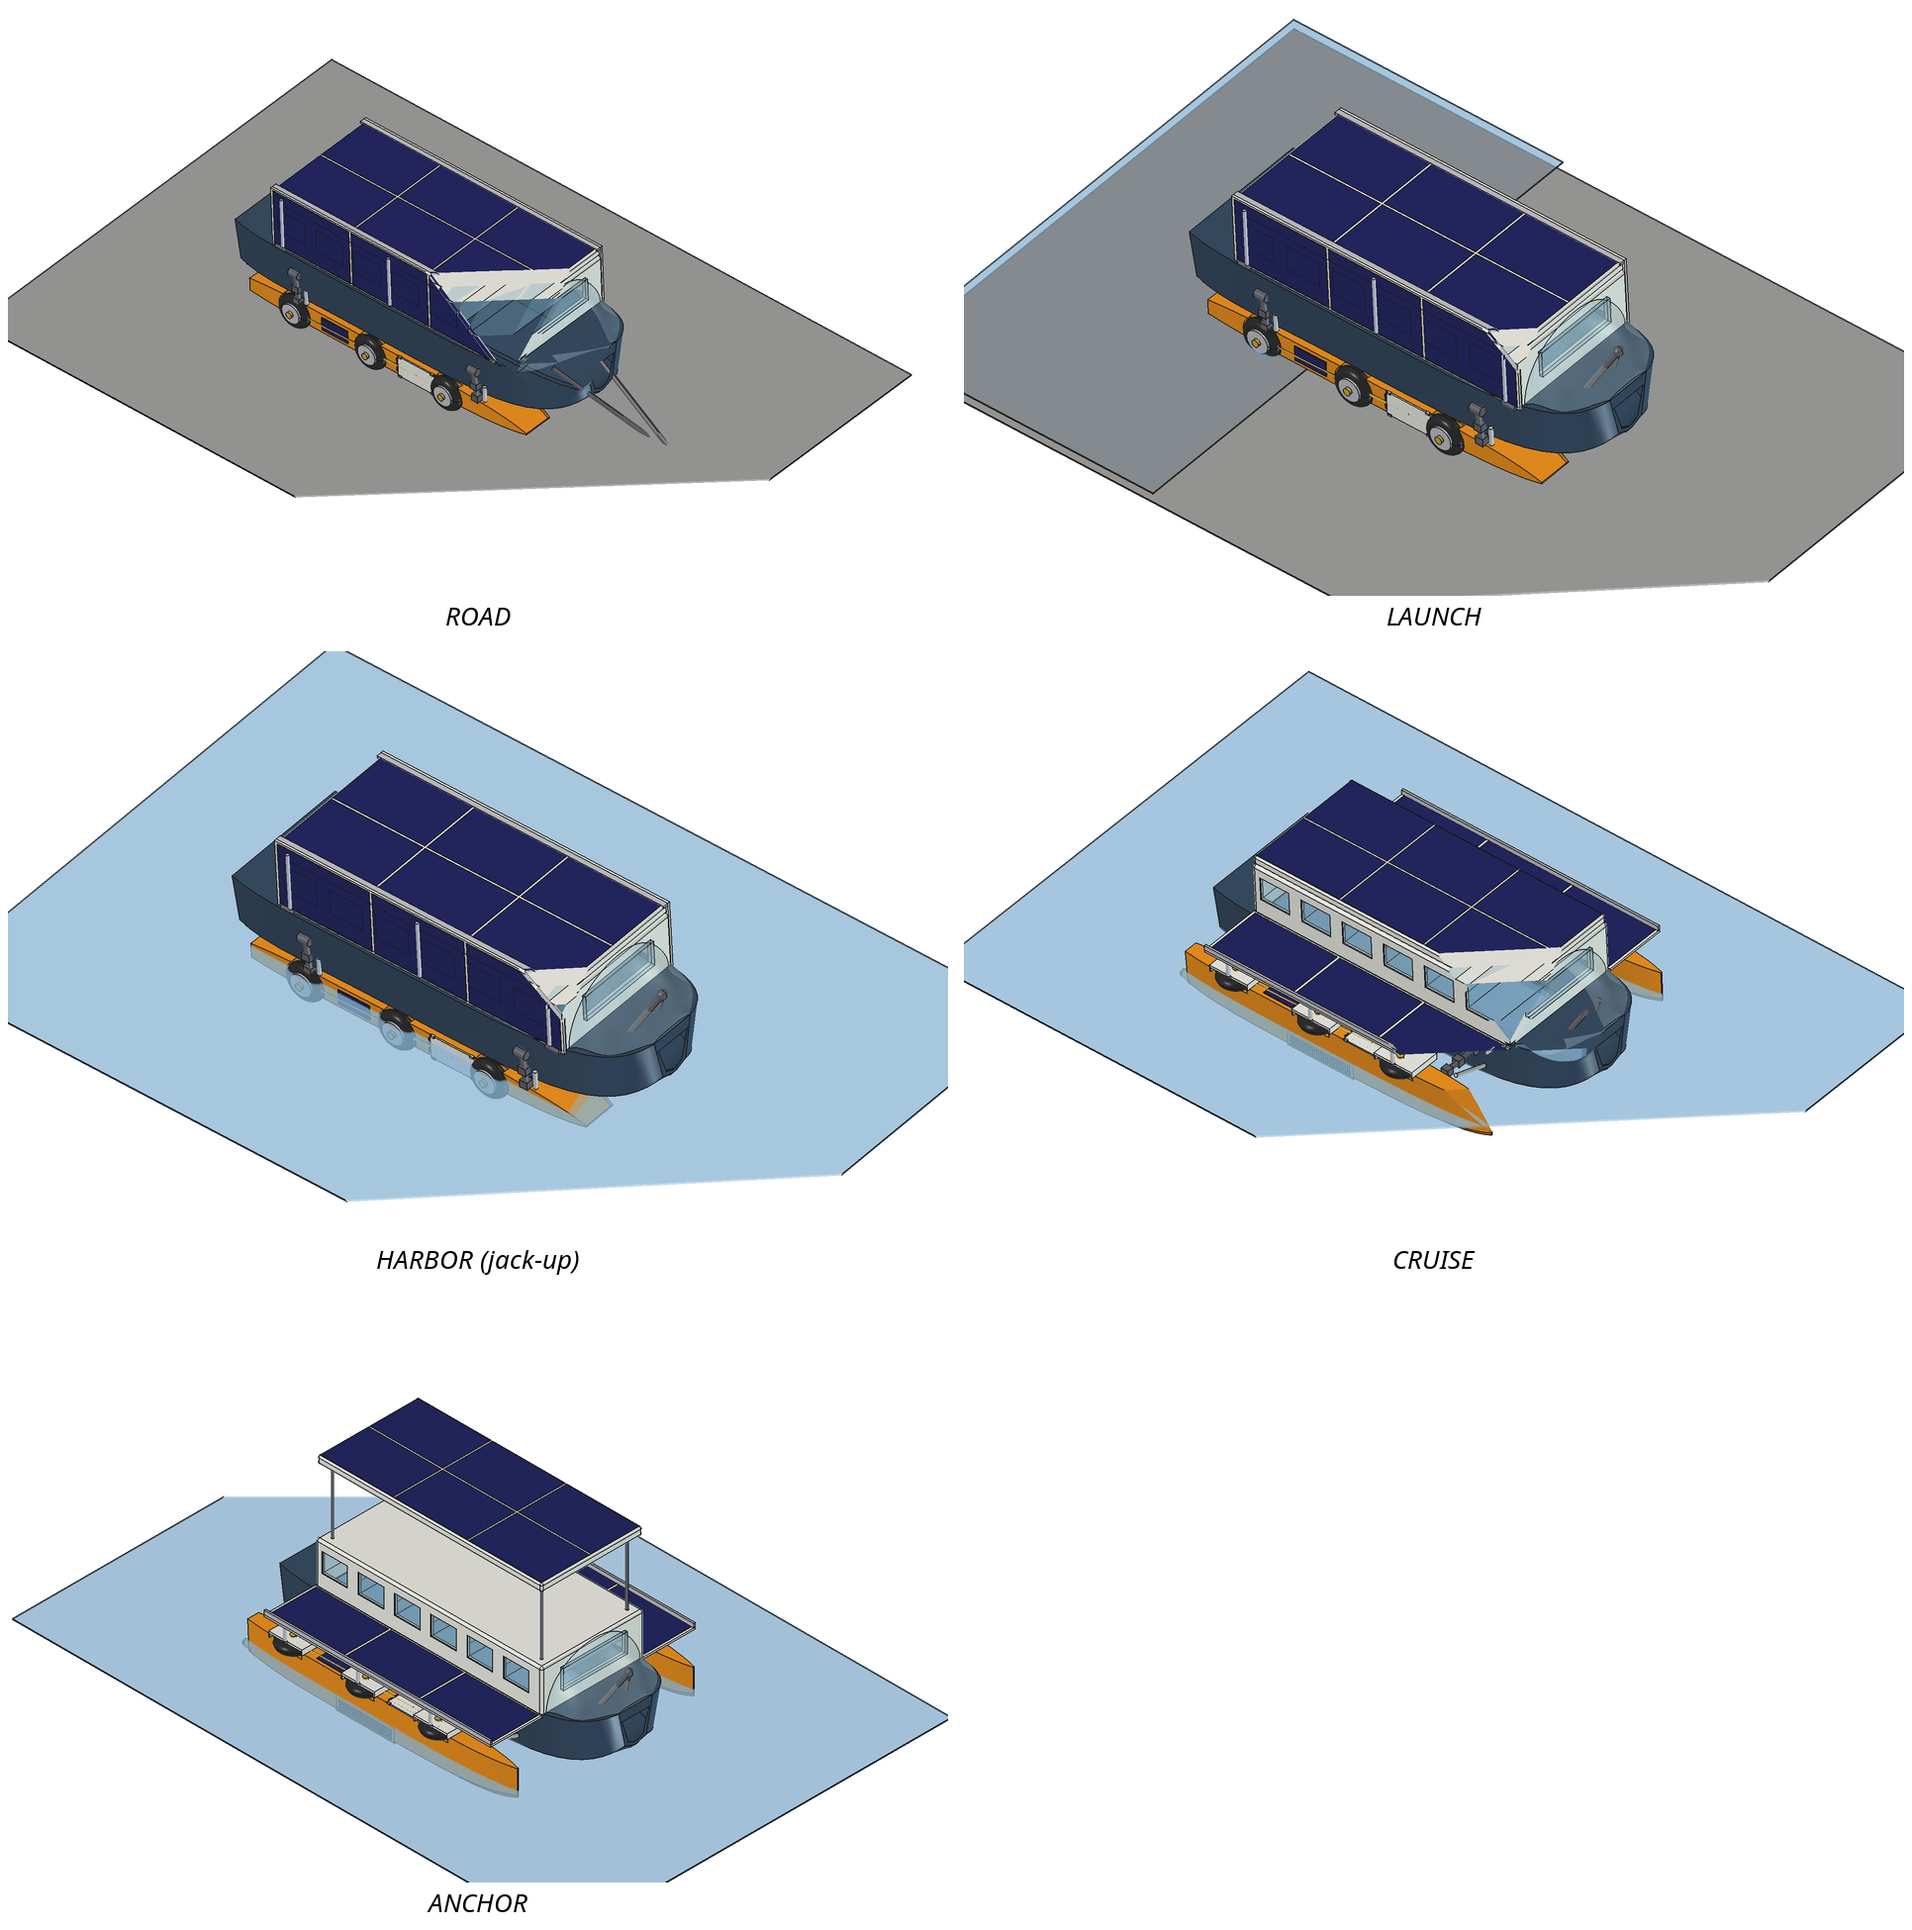
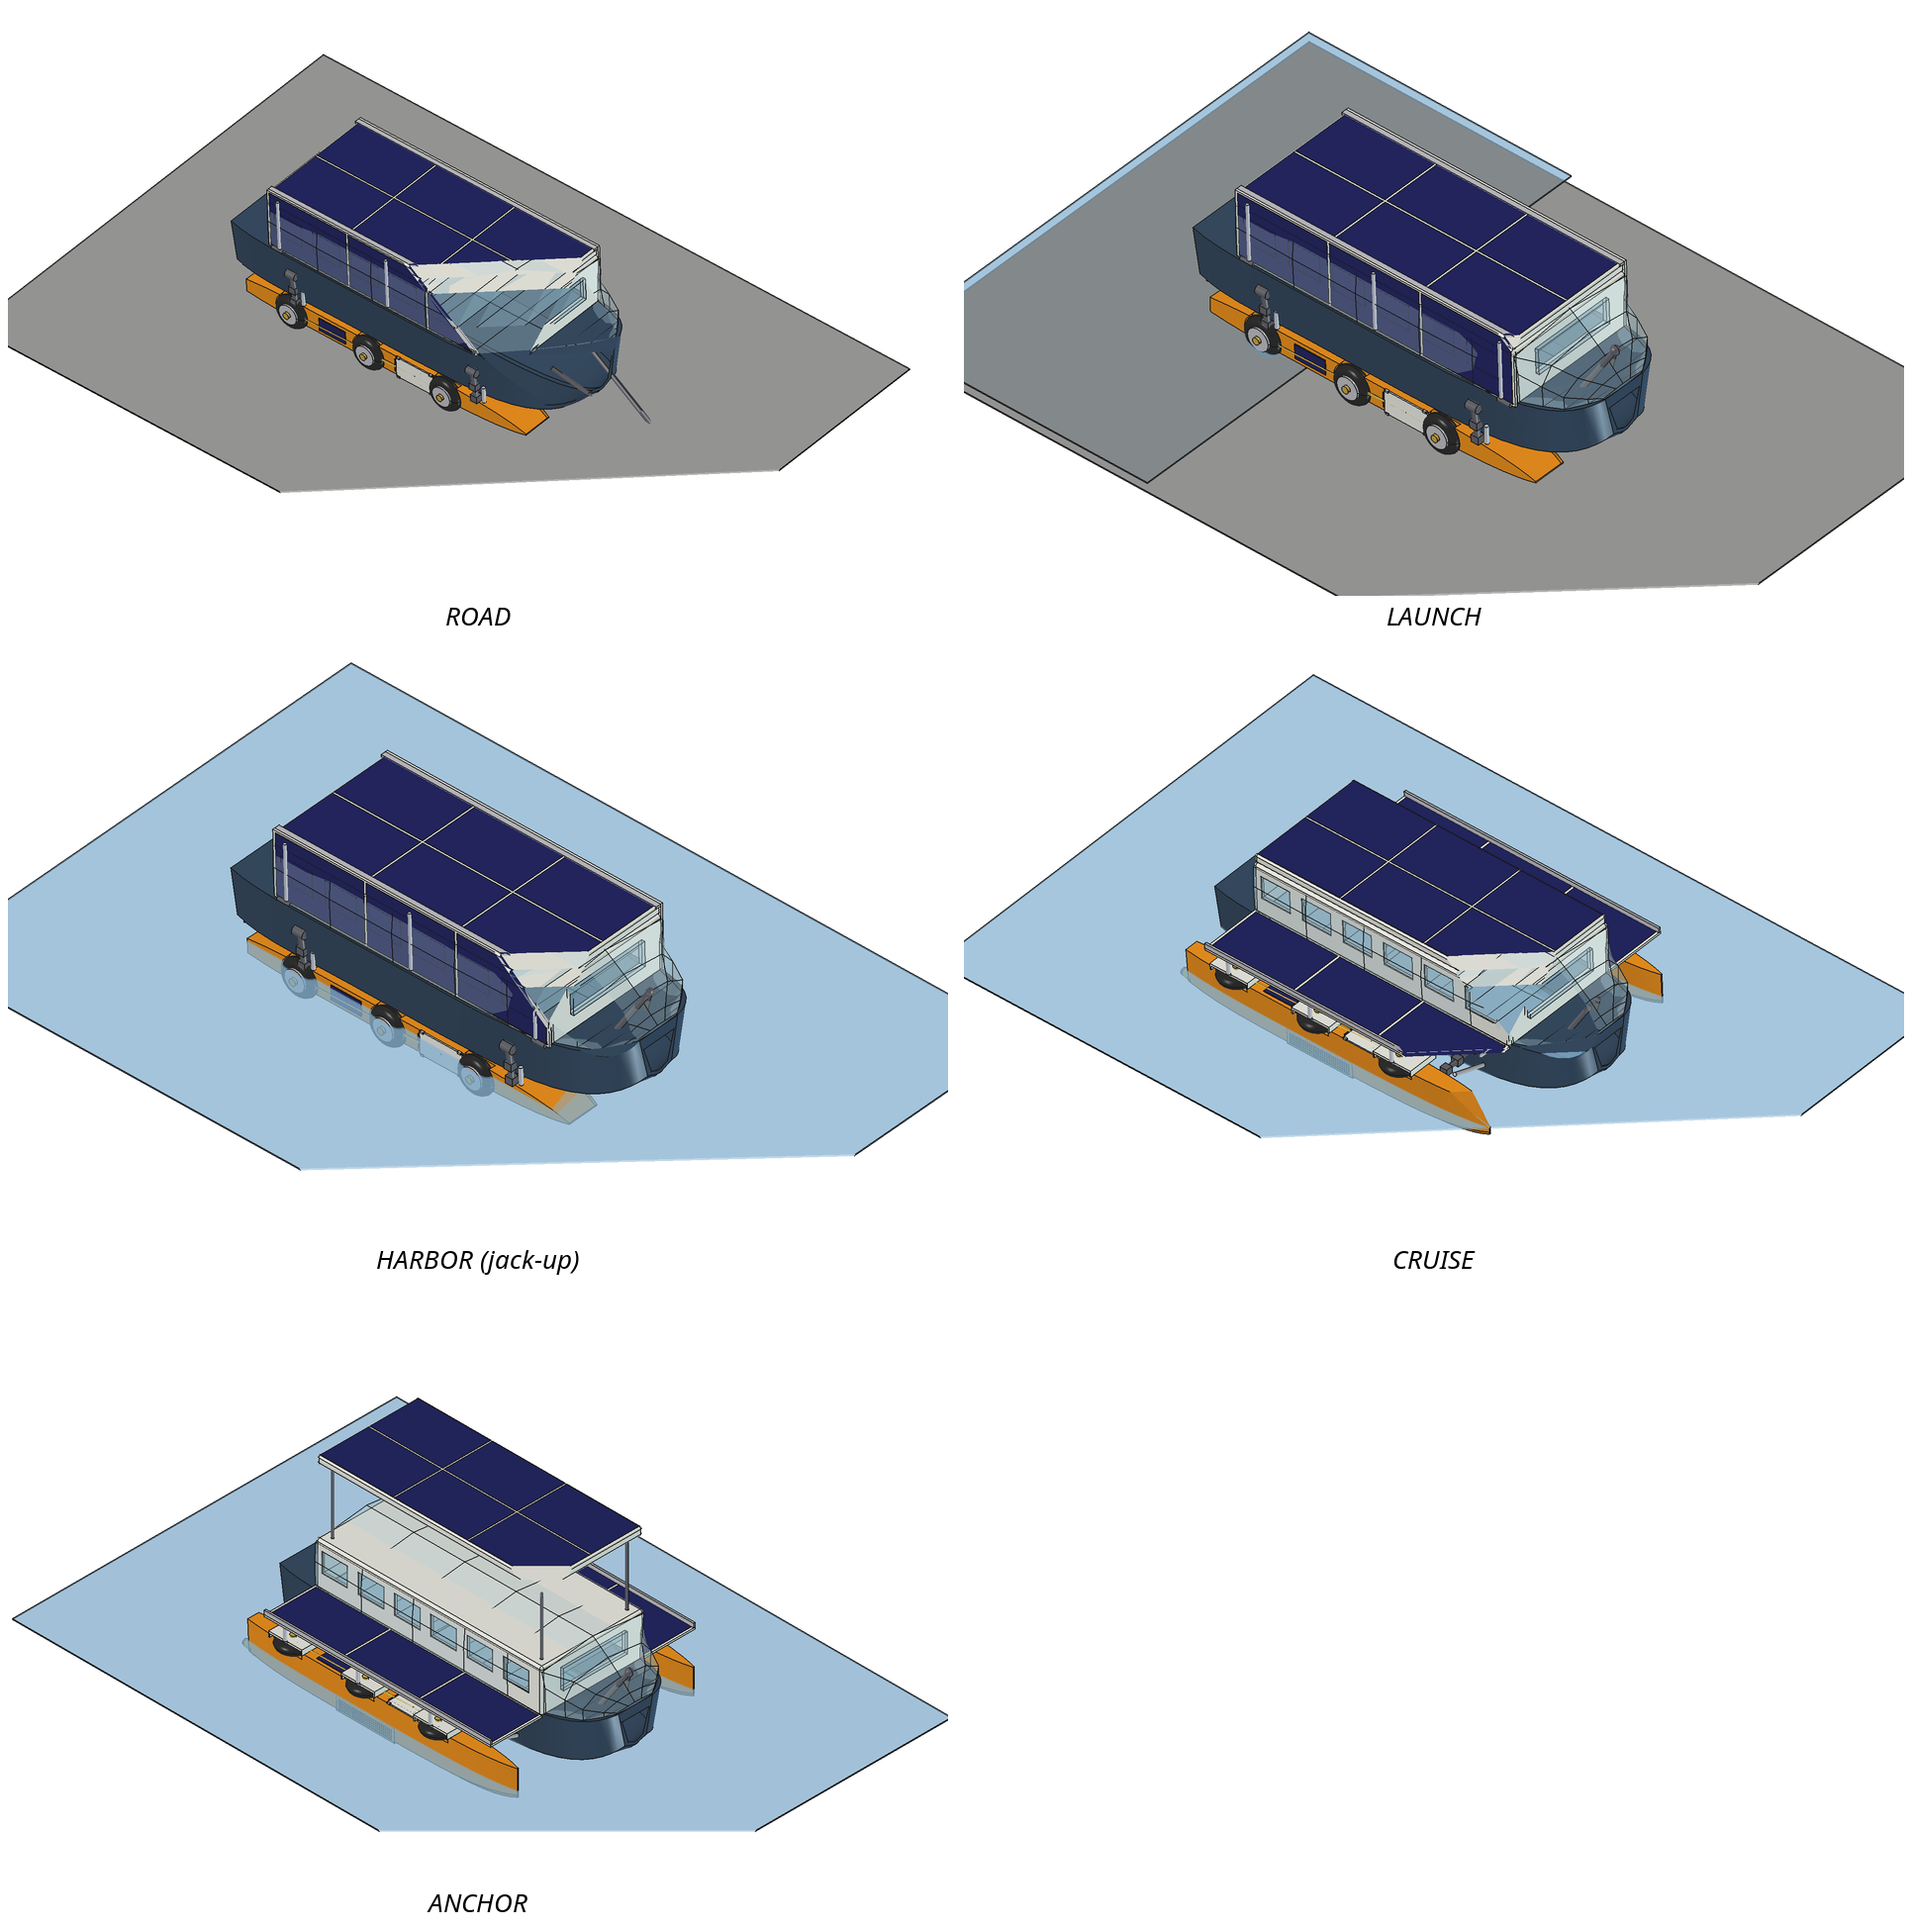
Winter garden: full curved plexiglass envelope over the cabin
Replaces the small bow blister Max rejected. One molded multi-bend
piece: bottom edge at the sheer line where the hull starts, glass
rising over both cabin sides to just under the roof-lid edge, wrapping
the raked bow bubble down to the foredeck. Ruled loft over
consistently-ordered frame sections gives the framed bent-panel look
of the reference image; the solar roof lid caps the top opening so the
pop-top still lifts. Glass footprint stays 30 mm inside the gunwale
(road envelope unchanged).

diff --git a/freecad/build_boat.py b/freecad/build_boat.py
@@ -420,15 +420,35 @@ def build_drawbar(deployed):
 
 
 def build_wintergarden():
-    """Single molded curved plexiglass bubble over the foredeck: lofted
-    closed spline sections hugging the gunwale line down to the bow."""
+    """Full curved plexiglass envelope: sheer line -> cabin sides ->
+    raked bow bubble. Lofted from consistently-ordered sections (the
+    plexiglass is bent in multiple planes, panel by panel)."""
+    def gunw(x):
+        st = P.STATIONS
+        for i in range(len(st) - 1):
+            if st[i][0] <= x <= st[i + 1][0]:
+                t = (x - st[i][0]) / (st[i + 1][0] - st[i][0])
+                return (st[i][1] + t * (st[i + 1][1] - st[i][1]),
+                        st[i][5] + t * (st[i + 1][5] - st[i][5]))
+        return st[-1][1], st[-1][5]
+
+    def section(x, apex, thw):
+        gw, sz = gunw(x)
+        gw -= P.WG_EDGE_INSET
+        shoulder = sz + (apex - sz) * 0.86
+        mid = (sz + apex) / 2
+        return wire([(x, 0, sz - 20), (x, -gw, sz), (x, -gw - 14, mid),
+                     (x, -thw, shoulder), (x, 0, apex),
+                     (x, thw, shoulder), (x, gw + 14, mid), (x, gw, sz)])
+
     wires = []
-    for x, w, az, ez in P.WG_SECTIONS:
-        pts = [(x, -w, ez), (x, -0.68 * w, ez + (az - ez) * 0.72),
-               (x, 0, az), (x, 0.68 * w, ez + (az - ez) * 0.72),
-               (x, w, ez), (x, 0, ez - 25)]
-        wires.append(bspline_wire(pts))
-    return Part.makeLoft(wires, True, False)
+    for x in (P.CABIN_X0, 2000, 3200, 4400, 5400, 6200):
+        wires.append(section(x, P.WG_APEX_CABIN, P.WG_TOP_HW))
+    for x, apex, f in ((6550, 1950, 0.80), (6850, 1700, 0.66),
+                       (7060, 1480, 0.5), (7180, 1360, 0.38)):
+        gw, _ = gunw(x)
+        wires.append(section(x, apex, max((gw - P.WG_EDGE_INSET) * f, 110)))
+    return Part.makeLoft(wires, True, True)   # ruled: bent-panel look
 
 
 def build_main_jet():

diff --git a/freecad/params.py b/freecad/params.py
@@ -161,18 +161,15 @@ def keel_z_at(x):
             return STATIONS[i][3] + t * (STATIONS[i + 1][3] - STATIONS[i][3])
     return STATIONS[-1][3]
 
-# ---- winter garden: single molded curved plexiglass over the foredeck ----
-# Wraps from the cabin roof front edge down to the bow deck: a glazed
-# conservatory where the foredeck becomes an all-weather sitting area.
-# [x, half_width, apex_z, edge_z] — half_width tracks the gunwale line
-# minus 40 mm so the glass sits right at the boat edge (bubble effect)
-WG_SECTIONS = [
-    [6200, 1096, 2150, 1195],
-    [6550,  985, 1950, 1225],
-    [6850,  866, 1690, 1250],
-    [7060,  586, 1470, 1292],
-    [7180,  390, 1350, 1310],
-]
+# ---- winter garden: full curved plexiglass envelope ----
+# One molded piece covering the WHOLE habitation area: bottom edge at
+# the sheer line (where the hull starts), rising over the cabin sides
+# to just under the roof-lid edge, wrapping the raked bow bubble down
+# to the foredeck. The solar roof lid caps the top opening, so the
+# pop-top still lifts through it.
+WG_APEX_CABIN = 2210     # glass crown over the cabin (roof lid above)
+WG_TOP_HW = 1195         # glass meets the roof-lid edge here
+WG_EDGE_INSET = 30       # bottom edge inset from the gunwale line
 
 # ---- drawbar + stern pod ----
 DRAWBAR_LEN = 1600
